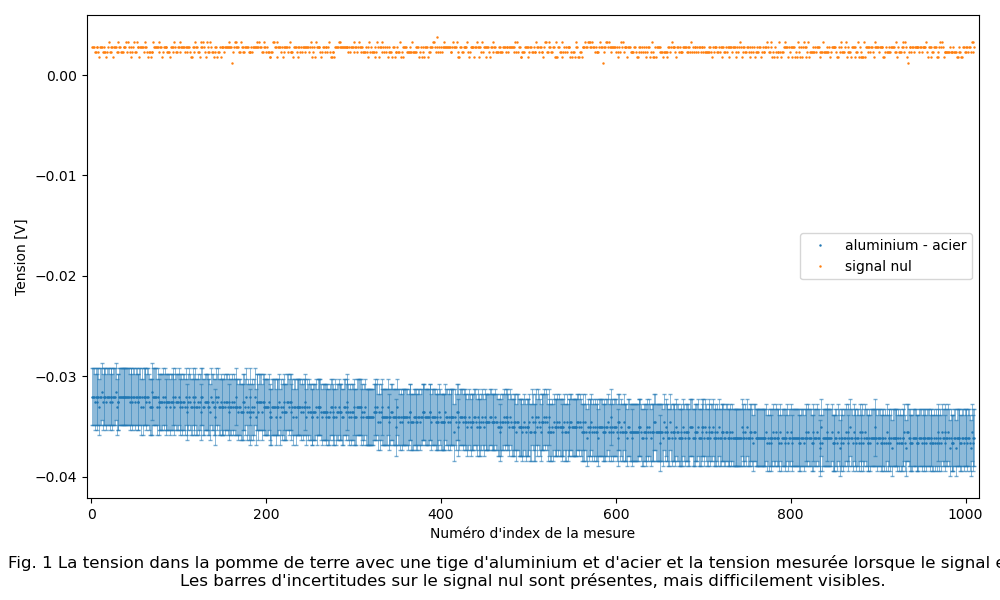
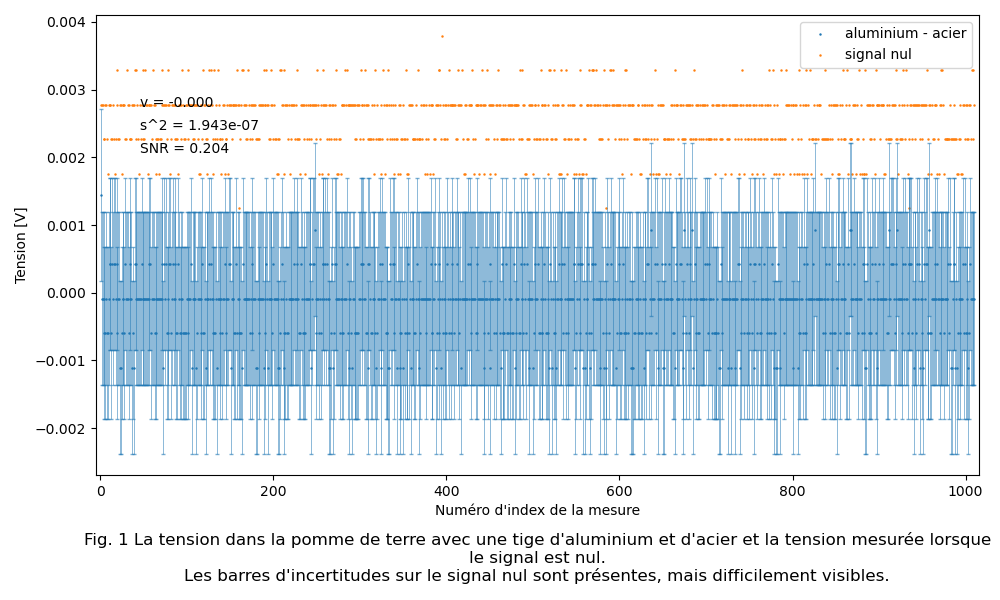
Suppression d'autres fichiers

diff --git a/Labo1/Programmation/Graphique_tension_constante.py b/Labo1/Programmation/Graphique_tension_constante.py
@@ -2,6 +2,7 @@ import pandas as pd
 import matplotlib.pyplot as plt
 import numpy as np
 import os
+from pathlib import Path
 
 # Choisir le directory pour les figures et le créer s'il n'existe pas.
 plot_dir = os.path.join("Labo1/Figures/tension_constante")
@@ -13,40 +14,34 @@ files = ['Labo1/Mesures/convertisseur_090925_01.lvm',               #0
          'Labo1/Mesures/tension_patate_aluinox_090925_01.lvm',      #2
          'Labo1/Mesures/tension_patate_aluinox_090925_02.lvm',      #3
          'Labo1/Mesures/tension_patate_aluacier_90925_01.lvm',      #4
-         'Labo1/Mesures/tension_patate_aluacier_90925_02.lvm',      #5
-         'Labo1/Mesures/tension_patate_aluacier_90925_03.lvm',      #6
-         'Labo1/Mesures/voltage_pile_090925_01.lvm',                #7
-         'Labo1/Mesures/voltage_pile_100925_01.lvm',                #8
-         'Labo1/Mesures/voltage_circuit_090925_01.lvm',             #9
-         'Labo1/Mesures/voltage_circuit_100925_01.lvm'              #10
+         'Labo1/Mesures/voltage_pile_090925_01.lvm',                #5
+         'Labo1/Mesures/voltage_pile_100925_01.lvm',                #6
+         'Labo1/Mesures/voltage_circuit_090925_01.lvm',             #7
+         'Labo1/Mesures/voltage_circuit_100925_01.lvm'              #8
          ]
 
 # Descriptions et légendes
 description = {0: 'le convertisseur',
-        4: "la pomme de terre avec une tige d'aluminium et d'inox",
-        5: "la pomme de terre avec une tige d'aluminium et d'inox",
-        6: "la pomme de terre avec une tige d'aluminium et d'acier",
-        7: "la pomme de terre avec une tige d'aluminium et d'acier",
-        8: "la pomme de terre avec une tige d'aluminium et d'acier",
-        9: "la pile",
-        10: "la pile",
-        11: "le circuit",
-        12: "le circuit"
+        2: "la pomme de terre avec une tige d'aluminium et d'inox",
+        3: "la pomme de terre avec une tige d'aluminium et d'inox",
+        4: "la pomme de terre avec une tige d'aluminium et d'acier",
+        5: "la pile",
+        6: "la pile",
+        7: "le circuit",
+        8: "le circuit"
         }
 
 nom = {0: 'convertisseur',
-       4: "aluminium - inox",
-       5: "aluminium - inox",
-       6: "aluminium - acier",
-       7: "aluminium - acier",
-       8: "aluminium - acier",
-       9: "pile",
-       10: "pile",
-       11: "circuit",
-       12: "circuit"
+       2: "aluminium - inox",
+       3: "aluminium - inox",
+       4: "aluminium - acier",
+       5: "pile",
+       6: "pile",
+       7: "circuit",
+       8: "circuit"
        }
 
-num = 0   
+num = 4   
 filepath = files[num]
 
 def read(file_name):
@@ -55,6 +50,9 @@ def read(file_name):
     col = 1
     if df.shape[1] == 3:
         col = 2
+    arr = df.to_numpy()  
+    if Path(file_name).name == "tension_patate_aluacier_90925_01.lvm":
+        arr[:, 0] += 0.0085  
     return df.to_numpy()[:, :col]
 
 def moyenne(file_name, indice):
@@ -98,11 +96,13 @@ def graphiques_scatter(array):
     )
 
     ax = plt.gca()
-    ax.text(0.05, 0.88, f"v = {moyenne(filepath, 0):.3f}", transform=ax.transAxes)
-    ax.text(0.05, 0.83, f"s^2 = {variance(filepath, 0):.3f}", transform=ax.transAxes)
-    ax.text(0.05, 0.78, f"SNR = {snr(filepath, 0):.3f}", transform=ax.transAxes)
+    ax.text(0.05, 0.80, f"v = {moyenne(filepath, 0):.3f}", transform=ax.transAxes)
+    ax.text(0.05, 0.75, f"s^2 = {variance(filepath, 0):.3e}", transform=ax.transAxes)
+    ax.text(0.05, 0.70, f"SNR = {snr(filepath, 0):.3f}", transform=ax.transAxes)
 
     plt.tight_layout()
     plt.savefig(os.path.join(plot_dir, f"_{nom[num]}.png"))
+
+    plt.show()
 
 graphiques_scatter(read(filepath))
